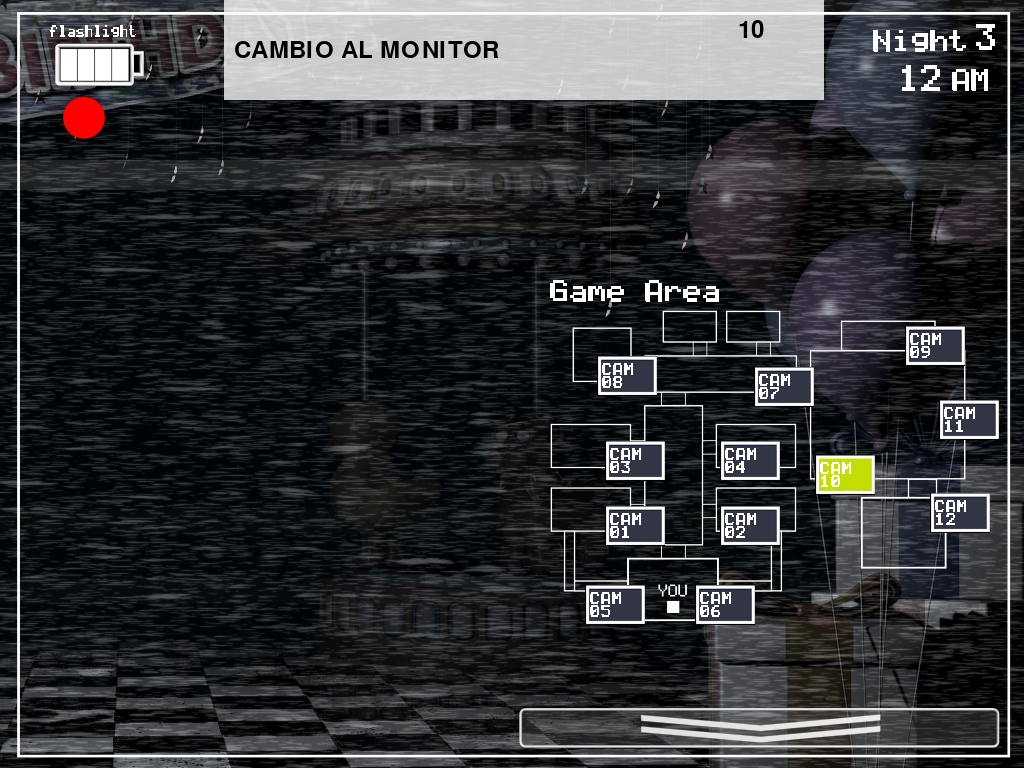
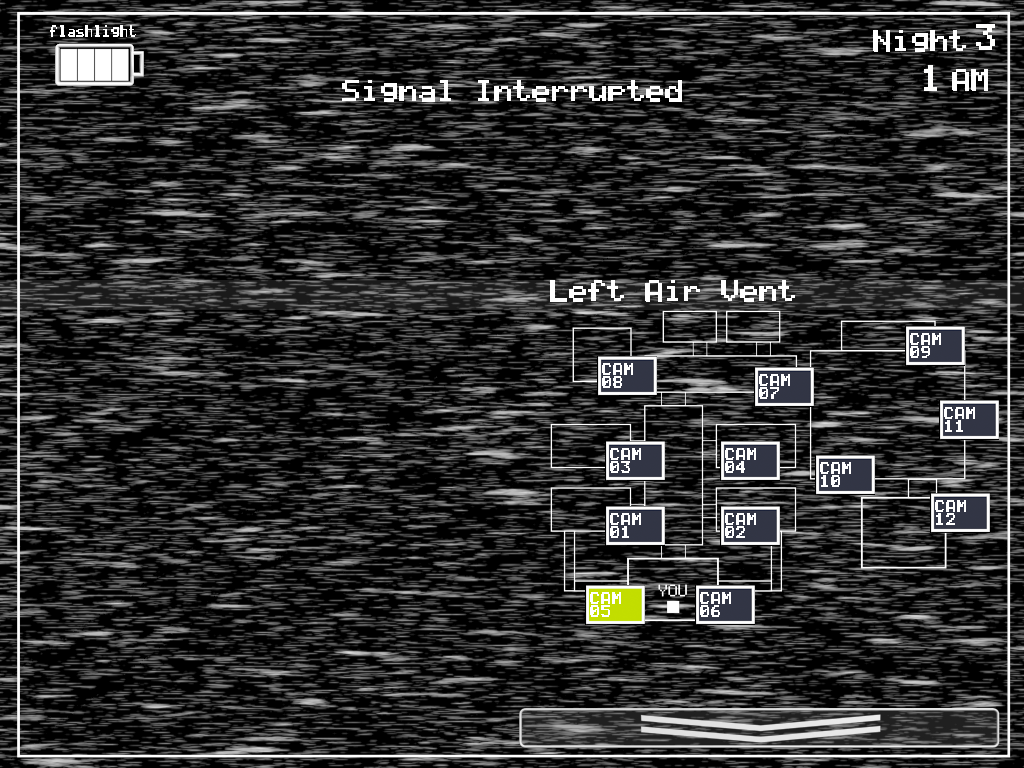
Refactorización de código. Cuando se hace la deteccion la zona de acción se quita

diff --git a/files/modoIA/modoIA.py b/files/modoIA/modoIA.py
@@ -1,7 +1,5 @@
 from ultralytics import YOLO
 import pygame
-from multiprocessing import Process, Queue
-import os
 import random
 from threading import Thread, Timer
 class MODO_IA:
@@ -15,9 +13,6 @@ class MODO_IA:
         self.open_monitor = False
         self.anim_map = {i: set() for i in range(0, 13)}
         self.num_camera = 9
-        self.child_queue = Queue()
-        self.anim_map_queue = Queue()
-        self.logs_queue = Queue()
         self.game_surface=App.surface
         self.drawn_icons = set()
         self.put_mask = False
@@ -37,6 +32,7 @@ class MODO_IA:
         self.detection_thread.start()
         self.log_rect=log_rect
         self.log=""
+        self.show_log_rect=True
 
     def write_log(self):
         font_large = pygame.font.Font(None, 36)
@@ -68,43 +64,8 @@ class MODO_IA:
                 icon_surface = pygame.image.load(icon_path).convert_alpha()
                 self.game_surface.blit(icon_surface, (icon_x, icon_y))
                 icon_x += icon_surface.get_width() + 10
-    def init_map_process(self):
-        # Inicializar Pygame y configurar la pantalla del mapa
-        pygame.init()
-        self.screen = pygame.display.set_mode((416,600))  #(416, 450)
-        pygame.display.set_caption("IA CONTROL")
-
-        map_image = pygame.image.load("sprites/cameras/utils/Map.png")
-        self.screen.blit(map_image, (0, 0))
-        pygame.display.flip()
-
-        font = pygame.font.Font(None, 24)
-        running = True
-        while running:
-            for event in pygame.event.get():
-                if event.type == pygame.QUIT:
-                    running = False
-                    break
-
-            # Manejar eventos solo cuando sea necesario
-            if not self.anim_map_queue.empty():
-                current_anim = self.anim_map_queue.get()
-                print(f"CURRENT ANIM ENVIADO {current_anim}")
-                self.check_map(current_anim, self.screen)
-            if not self.logs_queue.empty():
-                log = self.logs_queue.get()
-                self.draw_log(rect_position=(0, 312), log=log, font=font)
-
-            pygame.display.update()
-        pygame.quit()
-    def draw_log(self, rect_position, log, font,screen):
-        # Dibujar un rectángulo en la posición especificada
-        pygame.draw.rect(screen, (255, 255, 255), (rect_position[0], rect_position[1], 600, 100))
-
-        # Dibujar el texto del log dentro del rectángulo
-        text_surface = font.render(log, True, (0, 0, 0))
-        screen.blit(text_surface, (rect_position[0] + 10, rect_position[1] + 10))
-    def observation(self):      
+    def observation(self): 
+        print("OBSERVATIÓN")     
         self.current_time = pygame.time.get_ticks()
         if self.current_time - self.open_monitor_time <= 20000:
             self.log="CAMBIO AL MONITOR"
@@ -115,7 +76,7 @@ class MODO_IA:
                 self.music_box_time= self.current_time
                 
             else:
-                if self.current_time - self.change_camera_time >= 4000:
+                if self.current_time - self.change_camera_time >= 4500:
                     # Cambiar de cámara cada 5 segundos en el monitor
                     self.num_camera = random.randint(1, 12)
                     
@@ -153,26 +114,18 @@ class MODO_IA:
                 self.open_monitor_time = self.current_time
                 
 
-        print(f"ANIM_MAP: {self.anim_map}")
+       
         self.write_log()
         
 
-    def draw_detection_box(self):
-        if self.detected_rect is not None:
+    def check_anim(self,detect):
             current_anims = []
-            for r in self.detected_rect:
+            for r in detect:
                 for i in range(len(r.boxes)):
                     class_id = int(r.boxes.cls[i].numpy())
                     confidence = r.boxes.conf[i].numpy()
                     class_name = self.model.names[class_id]
                     current_anims.append(class_name)
-                    # x_min, y_min, x_max, y_max = map(int, r.boxes.xyxy[i, :4].numpy())
-
-                    # pygame.draw.rect(self.game_surface, (255, 0, 0), (x_min, y_min, x_max - x_min, y_max - y_min), 2)
-
-                    # font = pygame.font.Font(None, 36)
-                    # label_text = font.render(f"{class_name} {confidence:.2f}", True, (255, 255, 255))
-                    # self.game_surface.blit(label_text, (x_min, y_max + 5))
             if not any(self.anim_map.values()):
                 # Si no hay animaciones registradas en ninguna cámara, registrar las actuales en la cámara actual
                 self.anim_map[self.num_camera] = set(current_anims)
@@ -191,92 +144,21 @@ class MODO_IA:
 
 
     def detection(self):
-        self.show_log_rect = False  # Ocultar log_rect antes de tomar el frame.png
-        self.names = []
-        self.flashlight = True
-        pygame.image.save(self.game_surface, "frame.png")
-        self.show_log_rect = True  # Mostrar log_rect después de tomar el frame.png
-        results = self.model.predict("frame.png", conf=0.65)
-        self.flashlight = False
-        self.detected_rect = results
+            print("DETECCIÓN")
+            self.show_log_rect = False
+            self.names = []
+            self.flashlight = True
+            pygame.image.save(self.game_surface, "frame.png")
+            results = self.model.predict("frame.png", conf=0.65)
+            self.check_anim(results)
+            self.show_log_rect = True
+            self.flashlight = False
     def run_detection(self):
         while True:
             # Realizar la detección
             self.detection()
-            # Ajustar el intervalo según sea necesario (1.5 segundos en este ejemplo)
-            timer = Timer(0.8, self.run_detection)
+            # intervalo de detección (1 segundo)
+            timer = Timer(1, self.run_detection)
             timer.start()
             timer.join()
-    def check_map(self, current_anim, screen):
-        # Limpiar los iconos dibujados anteriormente
-        self.drawn_icons = set()
-
-        for camera, anims in current_anim.items():
-            anim_space = 0
-            x_min_zone, y_min_zone, _, _ = self.mapZones(camera)
-
-            # Volver a cargar el mapa para restaurar la imagen original
-            map_image = pygame.image.load("sprites/cameras/utils/Map.png")
-            screen.blit(map_image, (0, 0))
-
-            for class_name in anims:
-                icon_path = f"sprites/icons/{class_name}.png"
-                if os.path.exists(icon_path):
-                    icon_img = pygame.image.load(icon_path)
-                    screen.blit(icon_img, (x_min_zone + anim_space, y_min_zone))
-                    anim_space += 30
-                    # Agregar el icono al conjunto de iconos dibujados
-                    self.drawn_icons.add(icon_path)
-    def mapZones(self,camera):
-        if camera == 0: 
-            x_min, y_min = 75, 4
-            width, height = 80, 40
-            return x_min, y_min, width, height
-        if camera == 1: 
-            x_min, y_min = 4, 90
-            width, height = 80, 40
-            return x_min, y_min, width, height
-        if camera == 2: 
-            x_min, y_min = 165, 90
-            width, height = 80, 40
-            return x_min, y_min, width, height
-        if camera == 3: 
-            x_min, y_min = 2, 157
-            width, height = 80, 40
-            return x_min, y_min, width, height
-        if camera == 4: 
-            x_min, y_min = 167, 156
-            width, height = 80, 40
-            return x_min, y_min, width, height
-        if camera == 5: 
-            x_min, y_min = 25, 16
-            width, height = 80, 40
-            return x_min, y_min, width, height
-        if camera == 6: 
-            x_min, y_min = 179, 16
-            width, height = 80, 40
-            return x_min, y_min, width, height
-        if camera == 7: 
-            x_min, y_min = 150, 230
-            width, height = 80, 40
-            return x_min, y_min, width, height
-        if camera == 8: 
-            x_min, y_min = 24, 244
-            width, height = 80, 40
-            return x_min, y_min, width, height    
-        if camera == 9: 
-            x_min, y_min = 290, 15
-            width, height = 80, 40
-            return x_min, y_min, width, height    
-        if camera == 10: 
-            x_min, y_min = 264, 145
-            width, height = 80, 40
-            return x_min, y_min, width, height    
-        if camera == 11: 
-            x_min, y_min = 356, 200
-            width, height = 80, 40
-            return x_min, y_min, width, height    
-        if camera == 12: 
-            x_min, y_min = 313, 57
-            width, height = 80, 40
-            return x_min, y_min, width, height
+ 

diff --git a/files/menu/warning_init.py b/files/menu/warning_init.py
@@ -24,7 +24,7 @@ class WarningInit:
                 App.ia_control=True
                 white_rect = pygame.Surface((600, 100), pygame.SRCALPHA)
                 white_rect.fill((255, 255, 255,200))
-                App.surface.blit(white_rect, ((424//2), 0))
+                # App.surface.blit(white_rect, ((424//2), 0))
                 App.ia=MODO_IA(App,white_rect)
             elif keys[pygame.K_2]:
                 self.finish(App)
